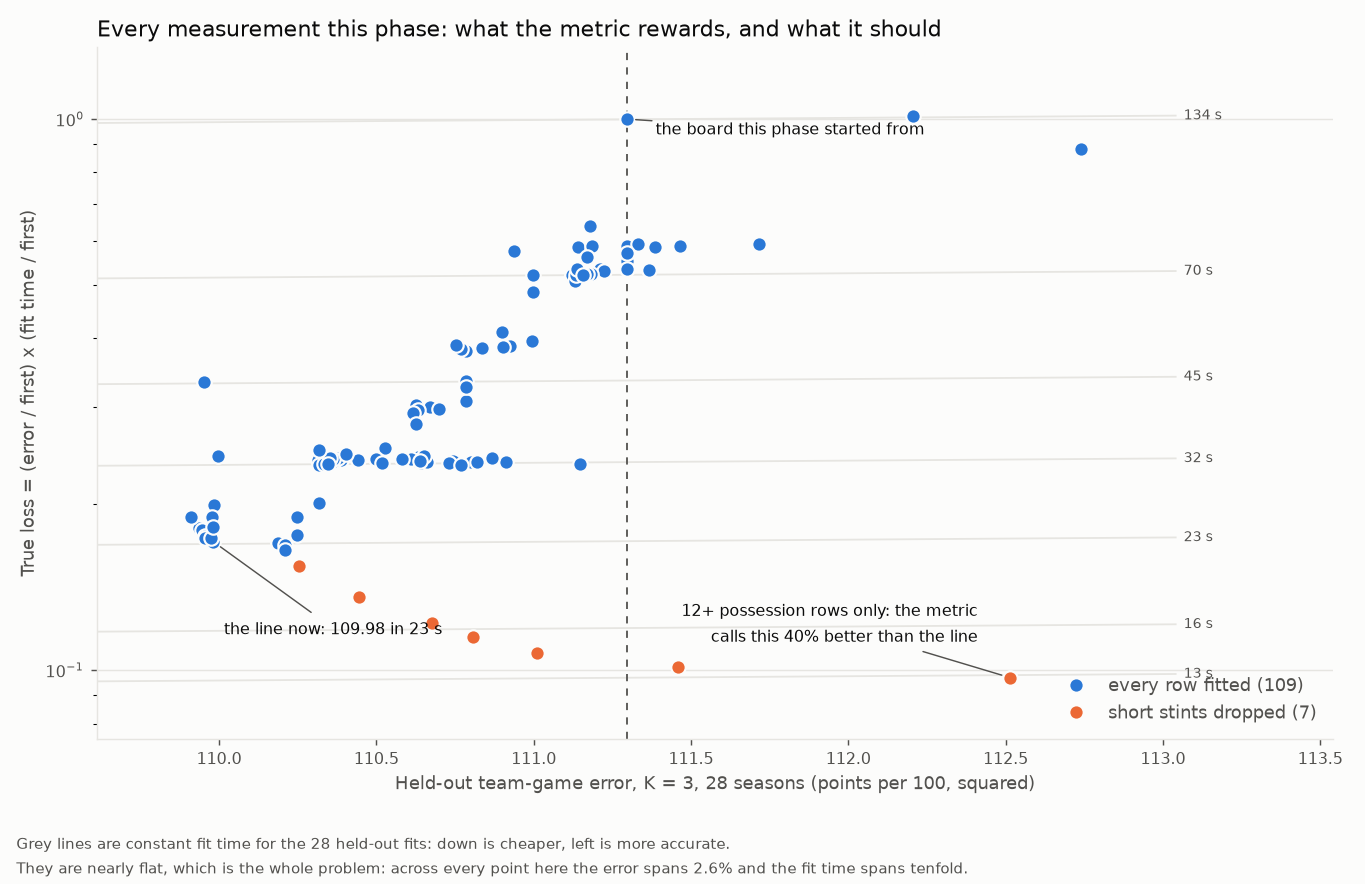
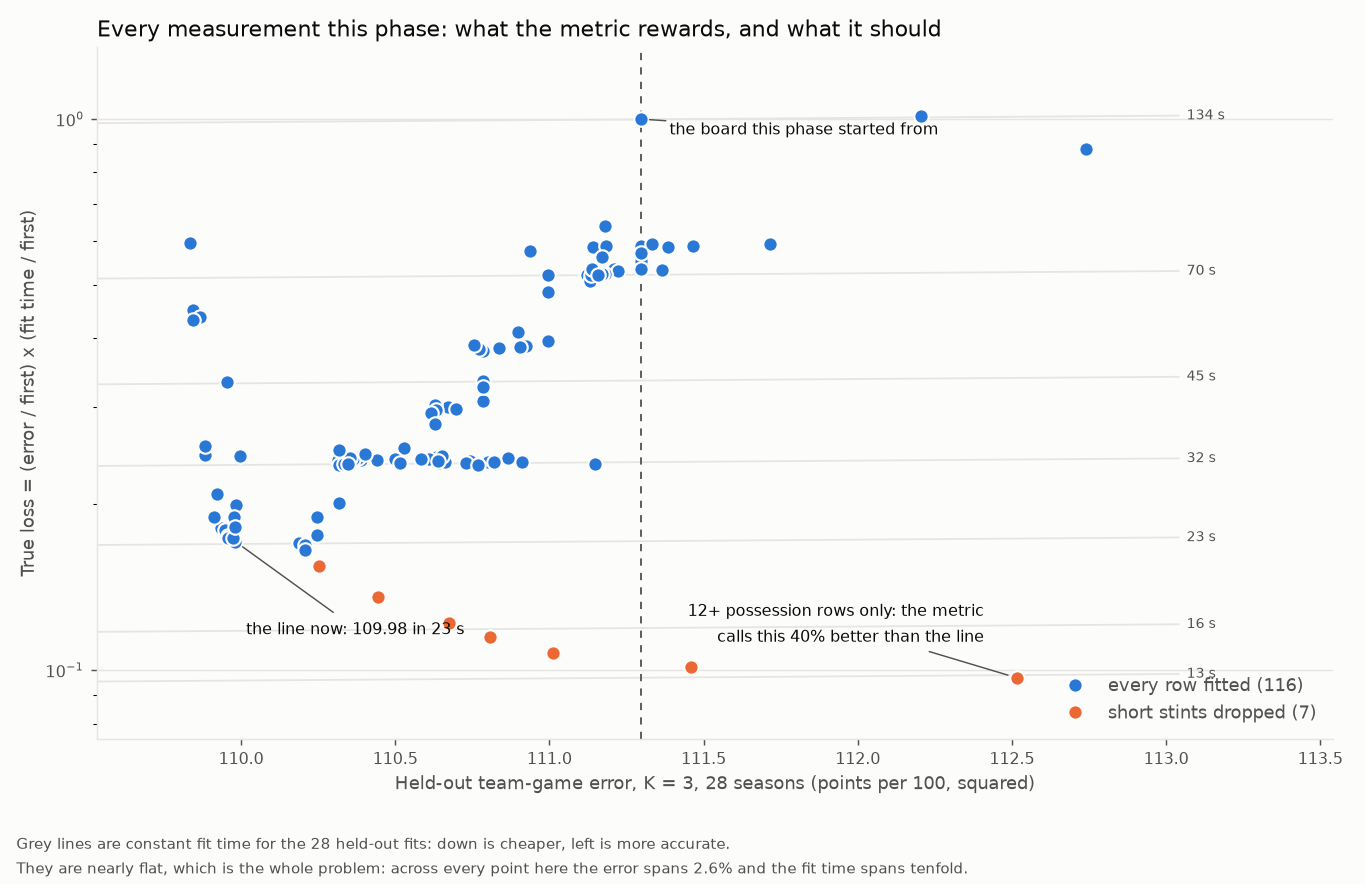
Accuracy first: the line is best_ratio_full at 109.845 (K = 3)
The owner ruled the clock is not binding at ~25 s and that the solution wanted is a universal one, tested on
every game there is.  So the line is chosen on the criterion alone from here, and the three prior changes of
21.24 -- each under 0.07 and none significant on its own -- stack into -0.135 at z -3.3, 20 of 28:

  the 13 rates + role + linear aggregations + efficiency ratios,
  chimeraboost quality=4 (5 bagged members) WITH the audition fits and cross features,
  the target pooled with a 0.3 discount per window of distance,
  map linear+log2&age2&xlog&prior&tshare|rowcubic          -> 109.845 in 59 s for the 28 fits.

The parts interact: bagging is +0.004 on the plain feature set and -0.027 on the ratio one, and the
model-selection search is -0.025 plain and -0.037 on top of the bag.  A richer feature set gives the search
something to find, so 21.24's "capacity does not matter" holds only at the feature set it was measured on.
The ladder stops there: 8 members instead of 5 is another -0.011 at z -0.83 for 20 more seconds.

The shipped board is untouched -- this line carries the age term and the two bends, which are prediction-time
only, and the APM prior on both sides, which fails the consensus floors.  FINDINGS 21.25.

diff --git a/src/eracoef/systems.py b/src/eracoef/systems.py
@@ -162,6 +162,20 @@ def registry(cfg, rankmap=None, calmap=None) -> dict:
         for wd_ in (0.3, 0.5, 0.7):
             n = f"best_wd{wd_:g}".replace(".", "")
             S[n] = MspiFast(n, gbdt_params=FAST, decay=0.5, decay_exposure=True, target="apm", win_decay=wd_)
+        # accuracy first (the owner, 2026-09-06: the clock is not binding at ~25 s): the ratio feature set
+        # with the gains that were only ever rejected on time
+        _RK = dict(gbdt_features={"O": list(_RF), "D": list(_RF)}, decay=0.5, decay_exposure=True, target="apm")
+        S["best_ratio_wd03"] = MspiFast("best_ratio_wd03", gbdt_params=FAST, win_decay=0.3, **_RK)
+        S["best_ratio_q4"] = MspiFast("best_ratio_q4", gbdt_params={**FAST, "quality": 4, "ensemble_n_jobs": 1},
+                                      **_RK)
+        S["best_ratio_wd03_q4"] = MspiFast("best_ratio_wd03_q4", win_decay=0.3,
+                                           gbdt_params={**FAST, "quality": 4, "ensemble_n_jobs": 1}, **_RK)
+        S["best_ratio_full"] = MspiFast("best_ratio_full", gbdt_params={"quality": 4, "ensemble_n_jobs": 1},
+                                        win_decay=0.3, **_RK)
+        S["best_ratio_full1"] = MspiFast("best_ratio_full1", gbdt_params={"quality": 4, "ensemble_n_jobs": 1},
+                                         **_RK)                      # the full recipe, pooling every window
+        S["best_ratio_q5full"] = MspiFast("best_ratio_q5full", gbdt_params={"quality": 5, "ensemble_n_jobs": 1},
+                                          win_decay=0.3, **_RK)
         # the aggregations INSTEAD of the raw rates they are made of: a smaller, better-conditioned set
         _SM = ["season", "share", "gs_pct", "age", *DERIVED, *RATIOS]
         S["best_small"] = MspiFast("best_small", gbdt_params=FAST, decay=0.5, decay_exposure=True, target="apm",

diff --git a/HANDOFF.md b/HANDOFF.md
@@ -20,7 +20,8 @@ if the final chain had not finished (`git status`).  Tests: 82 passed, 1 xfailed
 | | criterion (K = 3, mapped) | 28 fits | true loss |
 |---|---|---|---|
 | shipped before this phase (`mspi_linear+sat`, section 20) | 111.30 | 134 s | 1.00 |
-| the criterion's best now (`best`, map `linear+log2&age2&xlog&prior&tshare|rowcubic`) | **109.98** | **23.2 s** | **0.171** |
+| the criterion's best now (`best_ratio_full`, map `linear+log2&age2&xlog&prior&tshare|rowcubic`) | **109.85** | 59 s | 0.44 |
+| the same board with the cheap prior (`best`) | 109.98 | **23.2 s** | **0.171** |
 | what ships (`ship_blend07`, no held-out season, floors green) | 110.80 | 32 s | |
 
 **True loss** = (score / 111.30) x (28-fit seconds / 134).  Every time cut was checked to reproduce the
@@ -40,6 +41,9 @@ ratings bit for bit (`scratch/cmp_design.py`, `cmp_counters.py`, `cmp_expo.py`, 
    mean(c^3) differ by the spread of the lineups inside the team-game; the criterion wants both, opposite signs.
 7. **The training block's role** (`tshare`, his share of his teams' possessions over the block): -0.058, z -1.8.
    Marginal, and it IS a rating -- unlike the held-out season's minutes, which are a leak (21.21).
+8. **The prior's feature set and the booster's budget, TOGETHER** (21.25): efficiency ratios + linear
+   aggregations of the rates + `quality=4` with the audition fits + the nearby-window target, -0.135 at
+   z -3.3.  Separately each is under 0.07 and none is significant; the parts interact.
 
 ### What moved the clock (identical numbers)
 
@@ -49,11 +53,14 @@ this phase: **the design carries only the counters its targets read** (`counter_
 built on demand** (`WindowData.X_src`), **the exposure's lineup sums as one sparse product**, and the shooter
 rates by binary search.  134 s -> 23.2 s for the 28 fits.  `FASTFIT_TIMER=1` prints the split.
 
-### The metric's hole (21.22, decision open)
+### The metric's hole, and the owner's ruling (21.22, 21.25)
 
 Dropping short stints (`MspiFast.min_den`) improves the TRUE loss monotonically down to keeping only 12+
 possession rows, where the board is worse than section 20's and the metric calls it 40% better.  Nothing on
-that curve is taken.  The owner may want a floor on the loss instead of the bare product.
+that curve is taken: the owner ruled that a universal solution is wanted, tested on every game there is, and
+that the clock is not binding at ~25 s.  **The line is therefore chosen on the criterion alone**, and the fit
+time is a number the chart still carries rather than a term to optimise.  `docs/img/loss_vs_true_loss.png`
+shows why: across every measurement the error spans 2.6% and the fit time spans tenfold.
 
 ### What ships, and why not the best
 

diff --git a/FINDINGS.md b/FINDINGS.md
@@ -2209,3 +2209,32 @@ commit limit and 38.5 GB already committed by other processes.  Worth retrying w
 what it would have to beat on: the booster fits a leave-window-out pair in 0.14 s, and the whole 28-fit budget
 is 23 s.
 
+### 25. Accuracy first: the same three prior changes pay when they are stacked
+
+The owner ruled the clock is no longer binding at ~25 s.  Freed of the time penalty, the three prior changes of
+21.24 -- each worth less than 0.07 on its own and none of them significant -- stack into something that is:
+
+| system | criterion | vs the old line | z | 28 fits |
+|---|---|---|---|---|
+| `best` (the line before this) | 109.981 | | | 23 s |
+| `best_ratio` (the ratio feature set) | 109.912 | -0.069 | -1.28 | 26 s |
+| `best_ratio_wd03` (+ the nearby-window target) | 109.923 | -0.053 | -0.97 | 28 s |
+| `best_ratio_q4` (+ 5 bagged members) | 109.884 | -0.096 | -2.06 | 33 s |
+| `best_ratio_wd03_q4` (+ both) | 109.882 | -0.098 | -2.34 | 35 s |
+| **`best_ratio_full`** (+ the audition fits and cross features) | **109.845** | **-0.135** | **-3.33, 20/28** | 59-61 s |
+| `best_ratio_full1` (the same without the nearby-window target) | 109.867 | -0.114 | | 60 s |
+| `best_ratio_q5full` (8 bagged members instead of 5) | 109.833 | -0.148 | | 81 s |
+
+**The line is `best_ratio_full`**: the 13 rates + role + the linear aggregations + the efficiency ratios, the
+booster at `quality=4` with its audition fits and cross features, the target pooled with a 0.3 discount per
+window of distance, on the map `linear+log2&age2&xlog&prior&tshare|rowcubic`.  **109.845 at K = 3.**
+
+Two readings worth keeping.  **The parts interact**: bagging was +0.004 on the plain feature set and -0.027 on
+the ratio one; the model-selection search was -0.025 plain and -0.037 on top of the bag.  A richer feature set
+gives the search something to find, which is why 21.24's "capacity does not matter" holds only at the feature
+set it was measured on.  And **the ladder stops**: 8 bagged members instead of 5 is another -0.011 at z -0.83
+for 20 s, and dropping the nearby-window target costs +0.025 -- the stack is done, not obviously extendable.
+
+The true loss of the line is now 0.44 against 0.17 for the system it replaces.  That is the owner's call and
+the metric's, not a regression: 21.22 already showed the product is 97% clock.
+
